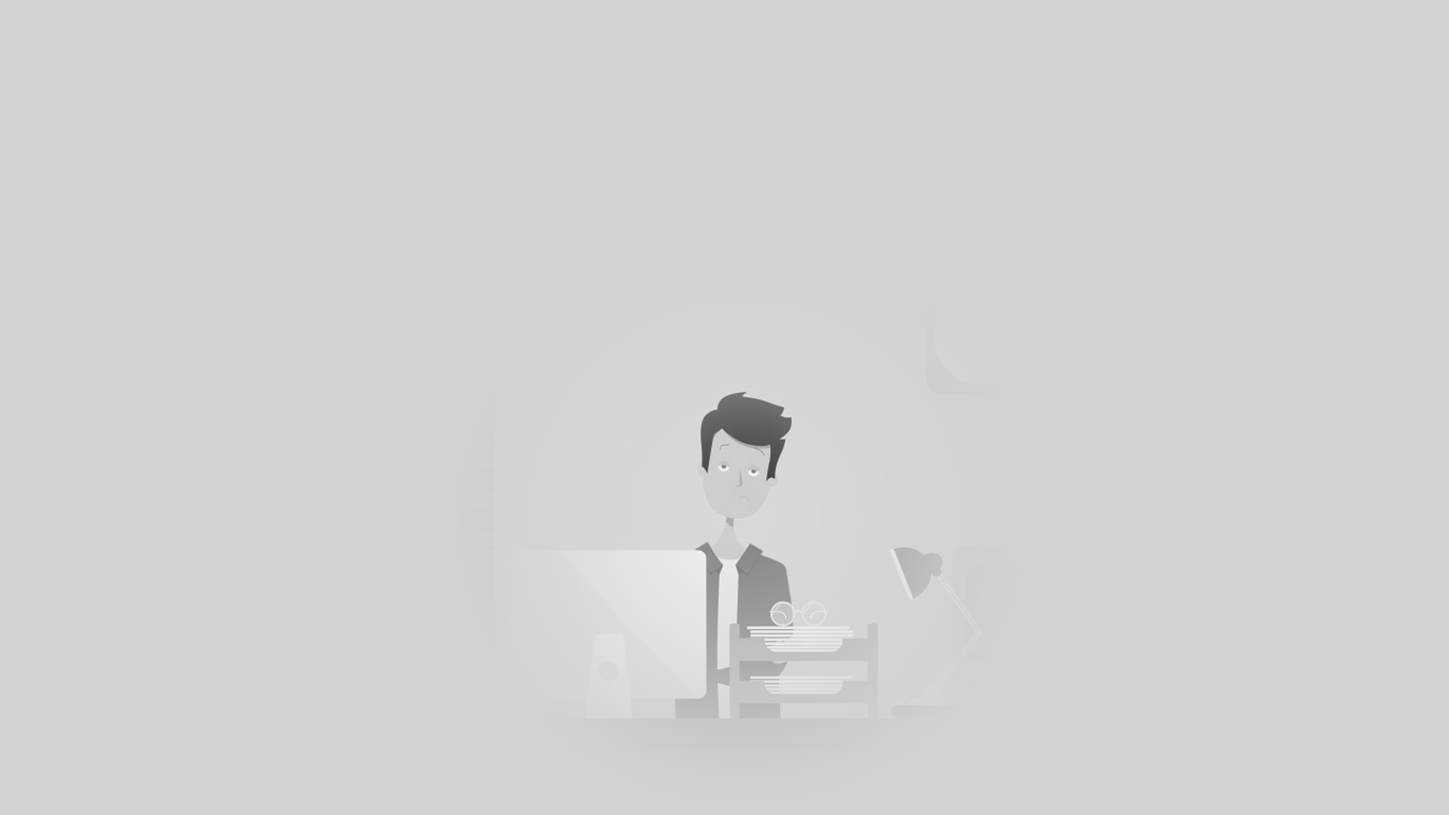
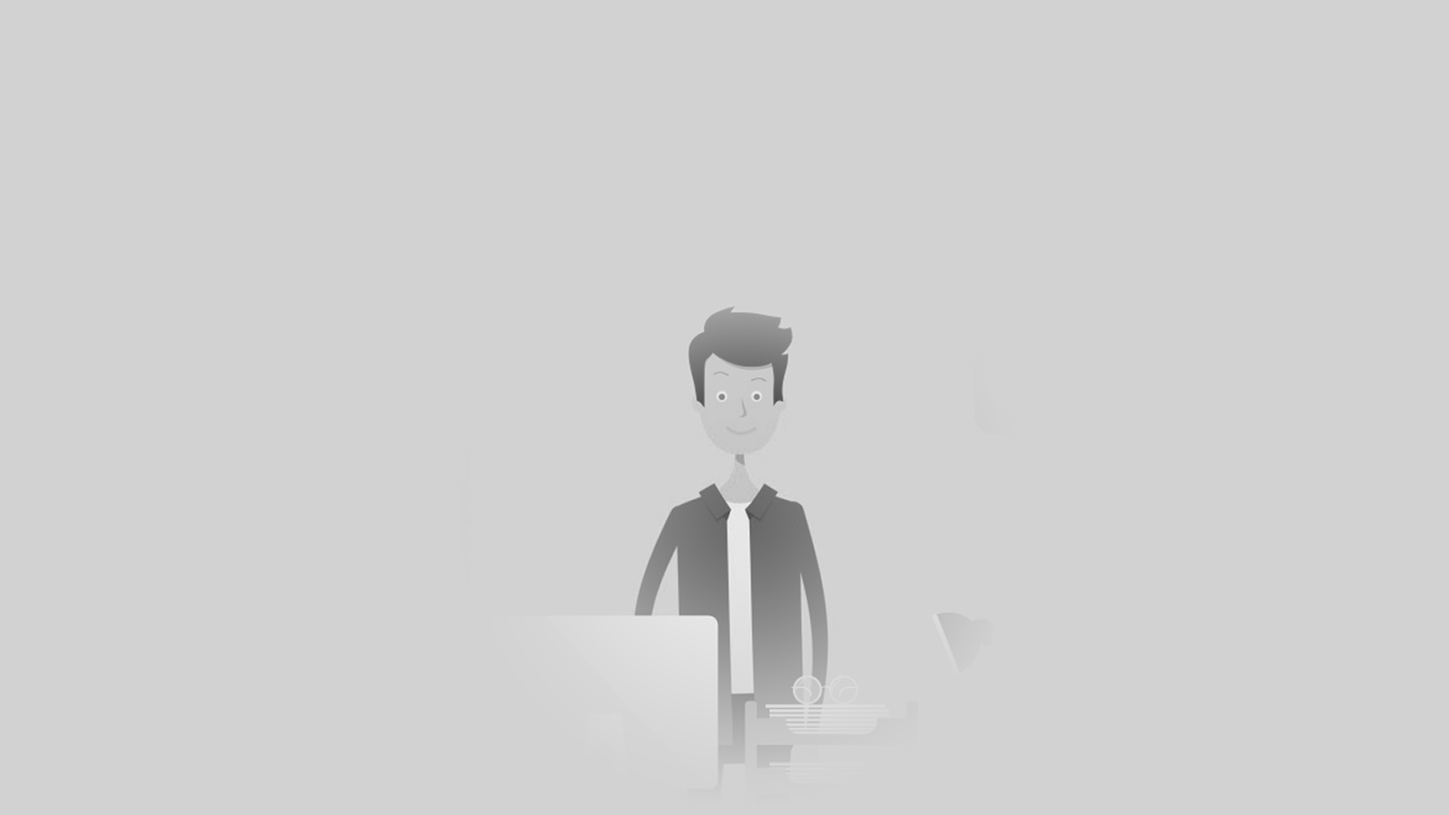
Updates 1/3
General remarks

Changed region(s): [[0.4375, 0.3667, 0.5938, 0.9167], [0.5938, 0.6722, 0.6562, 0.7028]]

diff --git a/business.html b/business.html
@@ -17,7 +17,7 @@ pagina: Business
       <div class="parallax-wrapper">
 
 	      <section id="slide-1" class="header header-ctaright">
-	        <div class="bg-image" style="background-image: url('assets/img/header-home.jpg');"
+	        <div class="bg-image" style="background-image: url('assets/img/header-business.jpg');"
 	        data-top="background-position: 50% 0px;" data-center-bottom="background-position: 50% -50px;" data-top-bottom="background-position: 50% -100px;" data-anchor-target="#slide-1"></div>
 	        <div class="container">
 	          <div class="row">
@@ -25,10 +25,13 @@ pagina: Business
                     <h2>BUSINESS,<br/>WHAT’S IN IT FOR YOU?</h2>
                     <p>As a business, you want to see improvements made to the software tools you use, but you might not have the budget to cover a full-fledged customer service.</p>
                     <br />
-                    <p><a href="#" class='scrolltonext'>Discover what Fundrequest can do for you.</a></p>
+                    <p><a href="#" class='scrolltonext smallBtn'>Discover what Fundrequest can do for you</a></p>
 	            </div>
 	          </div>
 	        </div>
+	        {% assign ctaimage = 'assets/img/header-business-cta.png' %}
+	        {% assign ctaflipimage = 'assets/img/header-business-flip-cta.png' %}
+
             {% include ctasquare.html %}
 	      </section>
 
@@ -53,7 +56,7 @@ pagina: Business
                         </div>
                         <div class="col-md-6">
                             <ul class="img-slider">
-                                <li><img src="assets/img/fundrequest-content-about.png" alt="" /></li>
+                                <li><img src="assets/img/fundrequest-content-about-new.png" alt="" /></li>
                             </ul>
                         </div>
                     </div>
@@ -77,11 +80,11 @@ pagina: Business
                         </div>
                         <div class="col-md-6">
                             <ul class="points">
-                                <li><b>Create a request</b> based on a feature you want to see or a bug you’ve encountered.</li>
-                                <li><b>Add a reward</b> to the request by clicking the handy “fund button”.<br/>The amount is sent to the Ethereum blockchain for validation. Then a smart contract is generated for the specific issue.</li>
-                                <li>The smart contract records your account and funding amount, and updates the total balance of the issue request.</li>
-                                <li>All proposed solutions get evaluated, and <b>the most suitable solution is determined.</b></li>
-                                <li>After the issue is solved, the funds are transferred and the <b>developer gets paid.</b> If no valid solution comes forth, the ticket can be closed, and you can use the “reclaim fund button” to <b>withdraw the reward</b>.</li>
+								<li><b>Create a request</b> based on a feature you want to see or a bug you’ve encountered.</li>
+								<li><b>Add a reward</b> to the request by clicking the “fund button”.</li>
+								<li><b>The smart contract is generated</b>: The amount is sent to the Ethereum blockchain for validation, and a smart contract is generated for the specific issue.</li>
+								<li><b>The most suitable solution is determined</b>.</li>
+								<li><b>The developer gets paid</b>: After the issue is solved, all funds are transferred to the contributor who offered the best solution.</li>
                             </ul>
                             <a class="smallBtn" href="howitworks">Learn more</a>
                         </div>

diff --git a/community.html b/community.html
@@ -17,7 +17,7 @@ pagina: Community
       <div class="parallax-wrapper">
 
 	      <section id="slide-1" class="header header-ctaright">
-	        <div class="bg-image" style="background-image: url('assets/img/header-home.jpg');"
+	        <div class="bg-image" style="background-image: url('assets/img/header-developer.jpg');"
 	        data-top="background-position: 50% 0px;" data-center-bottom="background-position: 50% -50px;" data-top-bottom="background-position: 50% -100px;" data-anchor-target="#slide-1"></div>
 	        <div class="container">
 	          <div class="row">
@@ -25,7 +25,7 @@ pagina: Community
                             <h2>COMMUNITY, WHAT’S IN IT FOR YOU?</h2>
                             <p>As a user and supporter of open source, you want to have an impact on the development of the tools you use. Whether you actively help solve bugs, program new features, or actively participate in discussions on online forums, your input matters.</p>
                             <br />
-                            <p><a href="#" class='scrolltonext'>Discover what Fundrequest can do for you.</a></p>
+                            <p><a href="#" class='scrolltonext smallBtn'>Discover what Fundrequest can do for you</a></p>
 	            </div>
 	          </div>
 	        </div>
@@ -53,7 +53,7 @@ pagina: Community
                         </div>
                         <div class="col-md-6">
                             <ul class="img-slider">
-                                <li><img src="assets/img/fundrequest-content-about.png" alt="" /></li>
+                                <li><img src="assets/img/fundrequest-content-about-new.png" alt="" /></li>
                             </ul>
                         </div>
                     </div>
@@ -76,11 +76,10 @@ pagina: Community
                         </div>
                         <div class="col-md-6">
                             <ul class="points">
-                                <li><b>Create a request</b> based on a feature you want to see or a bug you’ve encountered, or find a request that you want to support by adding your fund to the reward.</li>
-                                <li><b>Add your fund</b> to the reward by clicking the “fund button”.</li>
-                                <li>The smart contract registers your account and adds your fund to the reward.</li>
-                                <li>All proposed solutions get evaluated, and <b>the most suitable solution is determined.</b></li>
-                                <li>After the issue is solved, all funds are transferred and the <b>developer gets paid.</b> If no valid solution comes forth, the ticket can be closed, and you can use the “reclaim fund button” to <b>withdraw your fund from the reward.</b></li>
+                                <li><b>Create a request</b> based on a feature you want to see or a bug you’ve encountered, or find a request that you want to support.</li>
+                                <li><b>Add your fund</b> to the reward by clicking the “fund button”. The smart contract registers your account and adds your fund to the reward.</li>
+                                <li><b>The most suitable solution is determined.</b></li>
+                                <li><b>The developer gets paid</b>: After the issue is solved, all funds are transferred to the contributor who offered the best solution. </li>
                             </ul>
                             <a class="smallBtn" href="{{ site.baseurl }}{% link howitworks.html %}">Learn more</a>
                         </div>

diff --git a/developer.html b/developer.html
@@ -17,15 +17,17 @@ pagina: Developer
       <div class="parallax-wrapper">
 
 	      <section id="slide-1" class="header header-ctaright">
-	        <div class="bg-image" style="background-image: url('assets/img/header-home.jpg');"
+	        <div class="bg-image" style="background-image: url('assets/img/header-developer.jpg');"
 	        data-top="background-position: 50% 0px;" data-center-bottom="background-position: 50% -50px;" data-top-bottom="background-position: 50% -100px;" data-anchor-target="#slide-1"></div>
 	        <div class="container">
 	          <div class="row">
 	            <div class="col-lg-6 col-md-7 col-sm-8 vertical-align" data-center="opacity: 1" data--200-top="opacity: 0" data-anchor-target="#slide-1 h2">
 	                <h2>Developer,<br />What's in it for you?</h2>
+                    <p>Are you a developer? Receive 20% bonus on the token sale by <a href='https://fundrequest.typeform.com/to/HwdMTo' target='_blank'>registering here</a>.</p>
+                    <br />	                
                     <p>As an open-source developer, you commit a considerable amount of your free time to build software for the community. Why not get rewarded for your time and effort?</p>
                     <br />
-                    <p><a href="#" class='scrolltonext'>Discover what Fundrequest can do for you.</a></p>
+                    <p><a href="#" class='scrolltonext smallBtn'>Discover what Fundrequest can do for you</a></p>
 	            </div>
 	          </div>
 	        </div>
@@ -55,7 +57,7 @@ pagina: Developer
                         </div>
                         <div class="col-md-6">
                             <ul class="img-slider">
-                                <li><img src="assets/img/fundrequest-content-about.png" alt="" /></li>
+                                <li><img src="assets/img/fundrequest-content-about-new.png" alt="" /></li>
                             </ul>
                         </div>
                     </div>
@@ -78,11 +80,10 @@ pagina: Developer
                         </div>
                         <div class="col-md-6">
                             <ul class="points">
-                                <li><b>Find a funded request</b></li>
-                                <li><b>Propose your solution</b><br/>You can resolve an issue by either providing the best answer, bug fix or solution.</li>
-                                <li><b>Your resolution gets evaluated and the most suitable solution is determined.</b><br>The contributor who offered the best solution will be notified, and is then able to collect his reward.</li>
-                                <li>After a check through the Smart Contract, you can <b>claim your reward.</b></li>
-                                <li>The funds are transferred and <b>you get paid.</b></li>
+								<li><b>Find a funded request</b></li>
+								<li><b>Propose your solution</b>: You can resolve an issue by either providing the best answer, bug fix or solution. Your resolution gets evaluated and the most suitable solution is determined.</li>
+								<li><b>Claim your reward</b>: The contributor who offered the best solution will be notified, and is then able to collect the funds.</li>
+								<li><b>You get paid</b>: After a check through the Smart Contract, the funds are transferred.</li>
                             </ul>
                             <a class="smallBtn" href="{{ site.baseurl }}{% link howitworks.html %}">Learn more</a>
                         </div>

diff --git a/index.html b/index.html
@@ -23,7 +23,7 @@ pagina: Home
                             <h2>A decentralized marketplace for open source collaboration</h2>
                             <p>FundRequest introduces an easy and secure way to <strong>reward bugfixes and feature builds on any project</strong>.<br/><br/>More than a monetization platform, FundRequest is a system for custom support that will <strong>boost the Open Source community</strong> as a whole – from developer to end user.</p>
                             <br />
-                            <p><a href="#" class='scrolltonext'>FIND OUT MORE</a></p>
+                            <p><a href="#" class='smallBtn scrolltonext'>FIND OUT MORE</a></p>
                         </div>
                     </div>
                 </div>
@@ -50,13 +50,13 @@ pagina: Home
                 </div>
                 <div class="hidden-md hidden-sm hidden-xs">
                     <div class="cta-huls" style="" data-200-top="opacity: 1; transform: rotate(45deg) translate(-150px,-150px);" data-top="opacity: 1; transform: rotate(45deg) translate(-50px,-50px);" data-center-bottom="opacity: 1; transform: rotate(45deg) translate(200px,200px);" data-anchor-target="#slide-2">
-                        <div class="cta-image" style="background-image: url('assets/img/header-2-cta.png'); background-position: -180px top;"></div>
+                        <div class="cta-image" style="background-image: url('assets/img/header-2-cta.png'); background-position: 0px top;"></div>
                     </div>
                     <a class="youtube playbtn" href="https://www.youtube.com/watch?v=Jnd5W7h3igQ" data-200-top="opacity: 1; transform: translate(0,-200px);" data-top="opacity: 1; transform: translate(0,-50px);" data-center-bottom="opacity: 1; transform: translate(0,300px);" data-anchor-target="#slide-2"><span class="icon-play"></span></a>
                 </div>
                 <div class="hidden-lg">
                     <div class="cta-huls" style="">
-                        <div class="cta-image" data-top="background-position: 50% -200px;" data-center-bottom="background-position: 50% -250px;" data-top-bottom="background-position: 50% -300px;" data-anchor-target="#slide-2" style="background-image: url('assets/img/header-2-cta.png'); background-position: -180px top;"></div>
+                        <div class="cta-image" data-top="background-position: 50% -200px;" data-center-bottom="background-position: 20% -250px;" data-top-bottom="background-position: 50% -300px;" data-anchor-target="#slide-2" style="background-image: url('assets/img/header-2-flip-cta.png'); background-position: -180px top;"></div>
                     </div>
                     <a class="youtube playbtn" href="https://www.youtube.com/watch?v=Jnd5W7h3igQ"><span class="icon-play"></span></a>
                 </div>

diff --git a/engage.html b/engage.html
@@ -15,23 +15,6 @@ pagina: Engage
     <div id="skrollr-body">
 
       <div class="parallax-wrapper">
-
-	      <section id="slide-1" class="header header-ctaright">
-	        <div class="bg-image" style="background-image: url('assets/img/header-home.jpg');"
-	        data-top="background-position: 50% 0px;" data-center-bottom="background-position: 50% -50px;" data-top-bottom="background-position: 50% -100px;" data-anchor-target="#slide-1"></div>
-	        <div class="container">
-	          <div class="row">
-	            <div class="col-lg-6 col-md-7 col-sm-8 vertical-align" data-center="opacity: 1" data--200-top="opacity: 0" data-anchor-target="#slide-1 h2">
-                    <h2>GET INVOLVED</h2>
-                    <p>Get informed by joining the active FundRequest community.<br/>Ask questions, discuss development, interact with our team members and fellow enthusiasts.</p>
-                    <br />
-                    <p><a href="#" class='scrolltonext'>Join our community.</a></p>
-	            </div>
-	          </div>
-	        </div>
-	        {% include ctasquare.html %}
-	      </section>
-
             <section class="engage">
                 <div class="container text-center">
                     <div class="row">
@@ -43,6 +26,7 @@ pagina: Engage
                             </div>
                             <h2>Join our Telegram group</h2>
                             <p>Join our Telegram group (<a href='https://t.me/fundrequestofficial' target='_blank'>@fundrequestofficial</a>), and deposit your Telegram ID and email through the form you find on our Telegram channel (<a href='https://t.me/fundrequestannouncement' target='_blank'>@fundrequestannouncement</a>).</p>
+                            <p><a href="https://t.me/fundrequestofficial" class='smallBtn' target='_blank'>Group</a> <a href="https://t.me/fundrequestannouncement" class='smallBtn' target='_blank'>Channel</a></p>
                         </div>
                         <div class="col-md-4 col-sm-6 sameHeight">
                             <div class='social_icon'>
@@ -59,6 +43,7 @@ pagina: Engage
                             </div>
                             <h2>Find us on<br/>Reddit</h2>
                             <p>Developers can find out what issues are most important to the <a href="https://reddit.com/r/fundrequest"target='_blank'>community</a>.</p>
+                            <p><a href="https://www.reddit.com/r/fundrequest/" class='smallBtn' target='_blank'>Find us on reddit</a></p>
                         </div>
                     </div>
                 </div>

diff --git a/_includes/ctasquare.html b/_includes/ctasquare.html
@@ -1,25 +1,21 @@
 <div class="hidden-md hidden-sm hidden-xs">
     <div class="cta-huls" style="" data-top="opacity: 1; transform: rotate(45deg) translate(0px,0px);" data-top-bottom="opacity: 1; transform: rotate(45deg) translate(200px,200px);" data-anchor-target="#slide-1">
-        <div class="cta-image" style="background-image: url('assets/img/header-home-cta.png'); background-position: -625px top;"></div>
+        <div class="cta-image" style="background-image: url('{{ ctaimage | default:'assets/img/header-home-cta.png' }}'); background-position: -625px top;"></div>
     </div>
     <a class="youtube playbtn" href="https://www.youtube.com/watch?v=Jnd5W7h3igQ" data-top="opacity: 1; transform: translate(0px,0px);" data-center-bottom="opacity: 1; transform: translate(0px,150px);" data-anchor-target="#slide-1"><span class="icon-play"></span></a>
     <div class="cta-block" data-top="opacity: 1; transform: translate(0px,0px);" data-center-bottom="opacity: 1; transform: translate(0px,600px);" data-top-bottom="opacity: 0; transform: translate(0px,555px);" data-anchor-target="#slide-1">
 		<div class="cta-inner vertical-align">
-			<h4>TOKEN SALE</h4>
-			<p>STARTS ON 20.11.2017</p>
 			<a class="cta-btn" href="https://register.fundrequest.io/" target='_blank'>GET WHITELISTED!</a>
 		</div>
     </div>
 </div>
 <div class="hidden-lg">
     <div class="cta-huls" style="">
-        <div class="cta-image" data-top="background-position: 50% -100px;" data-center-bottom="background-position: 50% -150px;" data-top-bottom="background-position: 50% -200px;" data-anchor-target="#slide-1" style="background-image: url('assets/img/header-home-cta.png'); background-position: -625px top;"></div>
+        <div class="cta-image" data-top="background-position: 50% -100px;" data-center-bottom="background-position: 50% -150px;" data-top-bottom="background-position: 50% -200px;" data-anchor-target="#slide-1" style="background-image: url('{{ ctaflipimage | default:'assets/img/header-home-flip-cta.png' }}'); background-position: -625px top;"></div>
     </div>
     <a class="youtube playbtn" href="https://www.youtube.com/watch?v=Jnd5W7h3igQ"><span class="icon-play"></span></a>
     <div class="cta-block" data-top="opacity: 1; transform: translate(0px,0px);" data-center-bottom="opacity: 1; transform: translate(0px,100px);" data-anchor-target="#slide-1">
 		<div class="cta-inner vertical-align">
-			<h4>TOKEN SALE</h4>
-			<p>STARTS ON 20.11.2017</p>
 			<a class="cta-btn" href="https://register.fundrequest.io/" target='_blank'>GET WHITELISTED!</a>
 		</div>
     </div>

diff --git a/about.html b/about.html
@@ -18,14 +18,14 @@ order: 1
 
       <div class="parallax-wrapper">
       	<section id="slide-1" class="header header-ctaright">
-            <div class="bg-image" style="background-image: url('assets/img/header-home.jpg');" data-top="background-position: 50% 0px;" data-center-bottom="background-position: 50% -50px;" data-top-bottom="background-position: 50% -100px;" data-anchor-target="#slide-1"></div>
+            <div class="bg-image" style="background-image: url('assets/img/header-about.jpg');" data-top="background-position: 50% 0px;" data-center-bottom="background-position: 50% -50px;" data-top-bottom="background-position: 50% -100px;" data-anchor-target="#slide-1"></div>
                 <div class="container">
                     <div class="row">
                         <div class="col-lg-6 col-md-7 col-sm-8 vertical-align" data-center="opacity: 1" data--200-top="opacity: 0" data-anchor-target="#slide-1 h2">
                             <h2>ABOUT FUNDREQUEST</h2>
                             <p>FundRequest represents a whole new approach to open-source development, with a transaction system that empowers users and rewards developers. Everybody wins!</p>
                             <br />
-                            <p><a href="#" class='scrolltonext'>Find out the basics.</a></p>
+                            <p><a href="#" class='scrolltonext smallBtn'>Find out the basics</a></p>
                         </div>
                     </div>
                 </div>
@@ -58,7 +58,7 @@ order: 1
                         </div>
                         <div class="col-md-6">
                             <ul class="img-slider">
-                                <li><img src="assets/img/fundrequest-content-about.png" alt="" /></li>
+                                <li><img src="assets/img/fundrequest-content-about-new.png" alt="" /></li>
                             </ul>
                         </div>
                     </div>

diff --git a/_sass/_style.scss b/_sass/_style.scss
@@ -300,6 +300,8 @@ ul.points {
 	height: 800px;
 	min-height: 800px;
 	height: 100vh;
+	color: #000;
+	line-height: 1.4em;
 
 	.bg-image {
 		height: 100%;
@@ -399,10 +401,23 @@ ul.points {
 				margin: 0 auto;
 			}
 			.cta-btn {
-				margin-top: 10px;
-				color: #fff;
-				border-bottom: 2px solid #fff;
+				margin-top: 0;
+			    border: 2px solid #fff;
+			    display: inline-block;
+			    height: 50px;
+			    line-height: 46px;
+			    padding-left: 20px;
+			    padding-right: 20px;
+			    background-color: #40a6da;
+			    color: #ffffff;
+
+			    &:hover {
+			    	background-color: #ffffff;
+			    	color: #40a6da;
+			    }
 			}
+
+
 		}
 	}
 	.cta-block:before {
@@ -758,6 +773,10 @@ ul.points {
 			}
 		}
 	}
+	a.smallBtn {
+		margin-left: 5px;
+		margin-right: 5px;
+	}
 }
 
 /* ========== TEAM ========== */
@@ -1000,7 +1019,7 @@ footer {
 	}
 	.socials {
 		height: 260px;
-		margin-top: -105px;
+		margin-top: -140px;
 		position: relative;
 		z-index: 1;
 
@@ -1009,7 +1028,7 @@ footer {
 			margin-bottom: 5px;
 		}
 		ul {
-			margin-bottom: 10px;
+			margin-bottom: 0px;
 			li {
 				vertical-align: top;
 				display: inline-block;
@@ -1029,6 +1048,8 @@ footer {
 			text-transform: uppercase;
 			font-family: $specialTextSemibold;
 			font-size: 16px;
+			margin-top: 10px;
+			display: block;
 		}
 	}
 	.row { position: relative; }
@@ -1366,6 +1387,9 @@ footer {
 	}
 	footer h4 {
 		font-size: 22px;
+	}
+	footer .socials {
+	    margin-top: -132px;
 	}
 	footer ul li {
 		padding: 5px 0;

diff --git a/_includes/participate.html b/_includes/participate.html
@@ -10,12 +10,12 @@
     </div>
     <div class="hidden-md hidden-sm hidden-xs">
         <div class="cta-huls" style="" data-200-top="opacity: 1; transform: rotate(45deg) translate(-150px,-150px);" data-top="opacity: 1; transform: rotate(45deg) translate(-50px,-50px);" data-center-bottom="opacity: 1; transform: rotate(45deg) translate(200px,200px);" data-anchor-target="#participate">
-            <div class="cta-image" style="background-image: url('assets/img/header-2-cta.png'); background-position: -180px top;"></div>
+            <div class="cta-image" style="background-image: url('assets/img/header-2-cta.png'); background-position: 0px top;"></div>
         </div>
     </div>
     <div class="hidden-lg">
         <div class="cta-huls" style="">
-            <div class="cta-image" data-top="background-position: 50% -200px;" data-center-bottom="background-position: 50% -250px;" data-top-bottom="background-position: 50% -300px;" data-anchor-target="#participate" style="background-image: url('assets/img/header-2-cta.png'); background-position: -180px top;"></div>
+            <div class="cta-image" data-top="background-position: 50% -200px;" data-center-bottom="background-position: 20% -250px;" data-top-bottom="background-position: 50% -300px;" data-anchor-target="#participate" style="background-image: url('assets/img/header-2-flip-cta.png'); background-position: -180px top;"></div>
         </div>
     </div>
 </section>

diff --git a/_includes/footer.html b/_includes/footer.html
@@ -9,8 +9,12 @@
                     <li><a href="https://fundrequest.slack.com/" target='_blank'><i class="fa fa-slack" aria-hidden="true"></i></a></li>
                     <li><a href="https://www.facebook.com/FundRequestplatform/" target='_blank'><i class="fa fa-facebook" aria-hidden="true"></i></a></li>
                     <li><a href="https://twitter.com/fundrequest_io" target='_blank'><i class="fa fa-twitter" aria-hidden="true"></i></a></li>
+                </ul>
+                <ul>
                     <li><a href="https://www.reddit.com/r/fundrequest/" target='_blank'><i class="fa fa-reddit" aria-hidden="true"></i></a></li>
                     <li><a href="https://group.kakao.com/_q0wqyP" target='_blank'><img src='assets/img/kakaotalk.png'/></a></li>
+                  	<li><a href="https://t.me/fundrequestofficial" target='_blank'><i class="fa fa-telegram" aria-hidden="true"></i></a></li>
+                  	<li><a href="https://weixin.qq.com/g/A9d0vxSBGzcMWLsn" target='_blank'><i class="fa fa-weixin" aria-hidden="true"></i></a></li>
 				</ul>
 				<a class="typeform-share link" href="https://fundrequest.typeform.com/to/pu3EGe" data-mode="drawer_right" data-hide-headers=true data-hide-footer=true data-submit-close-delay="1" target="_blank">Subscribe newsletter</a>
 			</div>

diff --git a/howitworks.html b/howitworks.html
@@ -19,7 +19,7 @@ order: 2
       <div class="parallax-wrapper">
 
 	      <section id="slide-1" class="header header-ctaright">
-	        <div class="bg-image" style="background-image: url('assets/img/header-home.jpg');"
+	        <div class="bg-image" style="background-image: url('assets/img/header-hiw.jpg');"
 	        data-top="background-position: 50% 0px;" data-center-bottom="background-position: 50% -50px;" data-top-bottom="background-position: 50% -100px;" data-anchor-target="#slide-1"></div>
 	        <div class="container">
 	          <div class="row">
@@ -27,7 +27,7 @@ order: 2
                     <h2>QUICK AND EASY</h2>
                     <p>Funding a Request will only take you a minute. You can issue a reward for any bug you want to see fixed or feature you want to see implemented. Thanks to Ethereum's Smart Contracts, the reward goes straight to the developers resolving the issue –no need for a middle man.</p>
                     <br />
-                    <p><a href="#" class='scrolltonext'>Find out how it works.</a></p>
+                    <p><a href="#" class='scrolltonext smallBtn'>Find out how it works</a></p>
 	            </div>
 	          </div>
 	        </div>

diff --git a/_includes/head.html b/_includes/head.html
@@ -23,7 +23,7 @@ j=d.createElement(s),dl=l!='dataLayer'?'&l='+l:'';j.async=true;j.src=
   <link type="text/css" rel="stylesheet" href="//code.jquery.com/mobile/1.2.0/jquery.mobile-1.2.0.min.css" />
   <link rel="stylesheet" href="{{ "/assets/css/main.css" | prepend: site.baseurl }}">
   <link rel="stylesheet" href="{{ "/assets/css/lightslider.min.css" | prepend: site.baseurl }}">
-  <link rel="stylesheet" href="//maxcdn.bootstrapcdn.com/font-awesome/4.4.0/css/font-awesome.min.css">
+  <link rel="stylesheet" href="//maxcdn.bootstrapcdn.com/font-awesome/4.7.0/css/font-awesome.min.css">
   <script src="//code.jquery.com/jquery-1.12.4.min.js"></script>
   <script src="//code.jquery.com/ui/1.12.1/jquery-ui.min.js"></script>
   <script src="{{ "/assets/js/bootstrap.min.js" | prepend: site.baseurl }}" type="text/javascript"></script>
